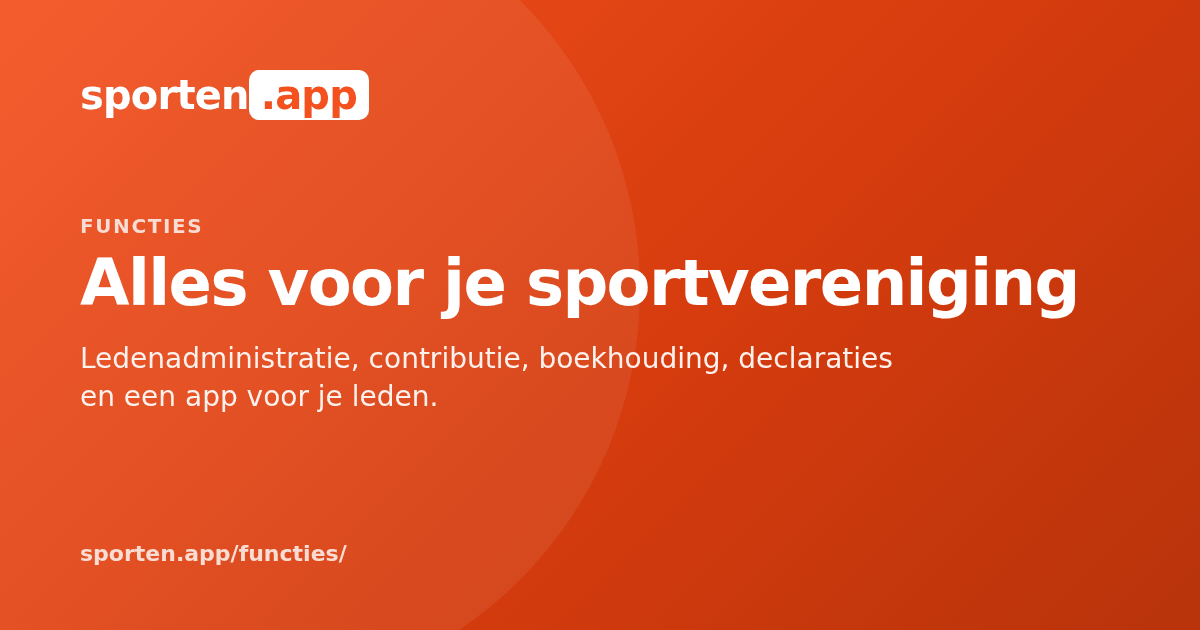
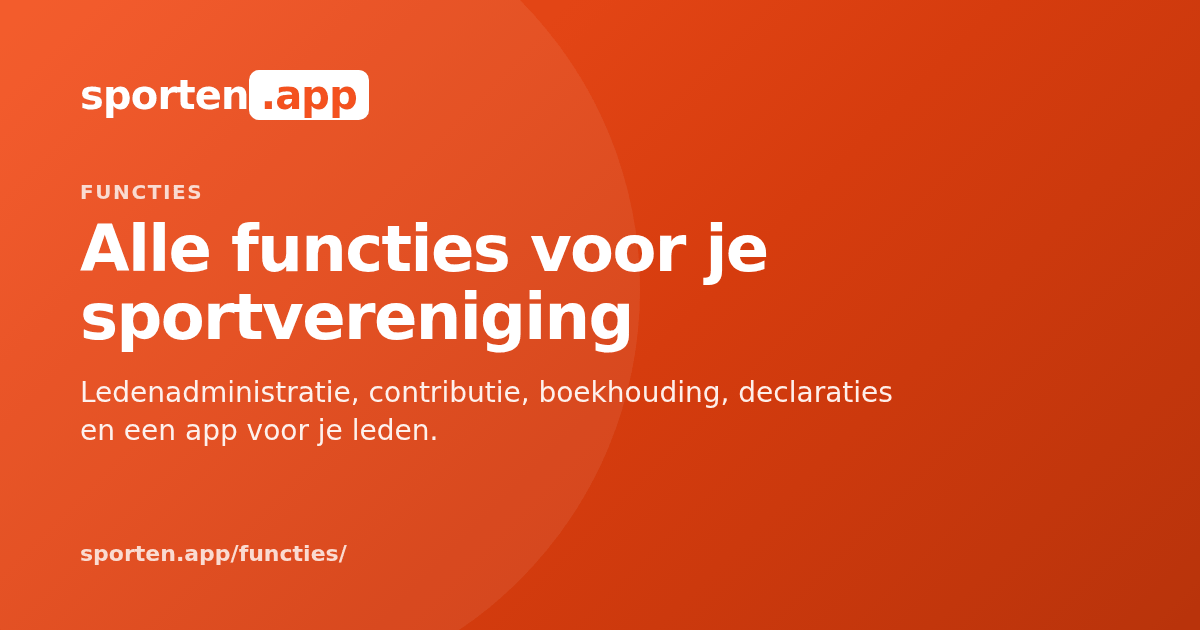
Eindreview verwerkt: delen, structured data, feiten tegen release 26.1
Delen
- De algemene deelafbeelding heet nu /img/og/algemeen.png: /img/og.png staat
  in de caches van Facebook, LinkedIn en WhatsApp met het plaatje van de oude
  site, en een nieuwe URL is de enige betrouwbare manier daarlangs.
- og:image:alt beschrijft wat er op de afbeelding staat (uit paginas.json).
- Geen og:url op de 404.
- Deelknoppen: een zin in de mail.

Structured data en SEO
- Organization en WebSite op elke pagina via de layout; verwijzingen naar
  #organisatie liepen elders dood. Article met author en image.
- /functies/-kaarten voor rollen en kostenplaatsen linken naar een anker.
- /prijzen/ linkt door naar functies, overstappen en studentenverenigingen.
- Titles: /functies/ "Alle functies voor je sportvereniging", /overstappen/
  "Overstappen van Excel of een ander pakket" (minder overlap met
  ledenadministratie).
- WhatsApp naast de mailknop in elke afsluitende oproep.

Feiten, nagemeten op origin/release/26.1
- Betalingen worden niet automatisch gekoppeld: Sporten.app stelt de factuur
  voor en je bevestigt met één klik.
- Alleen bij declaraties staat een boekingsvoorstel klaar; bij
  inkoopfacturen is dat uit het portaal gehaald.
- Een vergoeding breng je in mindering op een contributiefactuur die nog
  niet verstuurd is (handeling per vergoeding).
- Contributie: tarieven met een ingangsdatum; geen contributieregels per
  lidsoort of contributieronde beweren (die bestaan nog niet).
- Nagebouwd scherm: portal.sporten.app en "vrijwilligersvergoeding".
[…]

Changed region(s): [[0.0617, 0.2714, 0.8942, 0.7238]]

diff --git a/design/og/og.html b/design/og/og.html
@@ -74,7 +74,7 @@
           <tr><td>Contributie kwartaal 3</td><td class="bedrag">€ 8.240,00</td></tr>
           <tr><td>Declaratie · zaalhuur</td><td class="bedrag">€ 312,50</td></tr>
           <tr><td>Inkoopfactuur · Sportshop</td><td class="bedrag">€ 1.084,60</td></tr>
-          <tr><td>Trainersvergoeding</td><td class="bedrag">€ 640,00</td></tr>
+          <tr><td>Vrijwilligersvergoeding</td><td class="bedrag">€ 640,00</td></tr>
         </table>
       </div>
     </div>

diff --git a/design/og/verklein.py b/design/og/verklein.py
@@ -6,14 +6,14 @@ Een deelafbeelding wordt alleen door Facebook, LinkedIn en WhatsApp opgehaald en
 nooit door een bezoeker van de site, dus hij blokkeert niets. Maar 340 KB voor een
 vlak met een verloop en wat tekst is onnodig. Met een palet zakt hij naar zo'n
 60 KB zonder zichtbaar verschil; de dithering houdt het verloop glad.
-Neemt public/img/og.png en alles in public/img/og/ mee.
+Neemt alles in public/img/og/ mee.
 """
 import glob
 import os
 from PIL import Image
 
 img = os.path.normpath(os.path.join(os.path.dirname(__file__), '..', '..', 'public', 'img'))
-paden = [os.path.join(img, 'og.png')] + sorted(glob.glob(os.path.join(img, 'og', '*.png')))
+paden = sorted(glob.glob(os.path.join(img, 'og', '*.png')))
 
 for pad in paden:
     voor = os.path.getsize(pad)
